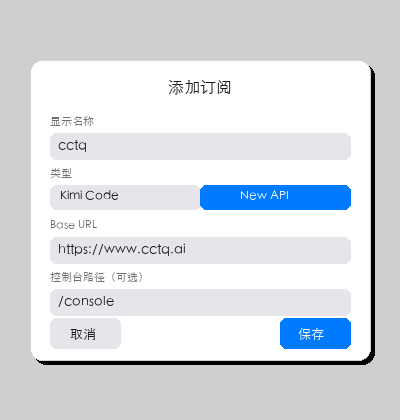
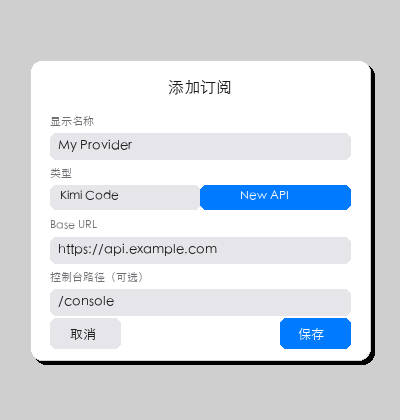
docs: remove specific New API provider names from README and code comments
- Replace CCTQ/IkunCode examples with generic placeholders
- Regenerate screenshots with generic provider names
- Update code comments to avoid mentioning specific platforms

Changed region(s): [[0.24, 0.5571, 0.54, 0.619], [0.15, 0.3095, 0.33, 0.3714]]

diff --git a/Sources/CodingPlanPlugin/Services/KeychainStorage.swift b/Sources/CodingPlanPlugin/Services/KeychainStorage.swift
@@ -26,8 +26,8 @@ enum KeychainError: Error {
 ///     "token_type": "..."
 ///   },
 ///   "newapi": {
-///     "https://www.cctq.ai": { "token": "...", "userID": "..." },
-///     "https://api.ikuncode.cc": { "token": "...", "userID": "..." }
+///     "https://api.example.com": { "token": "...", "userID": "..." },
+///     "https://api.example.org": { "token": "...", "userID": "..." }
 ///   }
 /// }
 /// ```

diff --git a/Sources/CodingPlanPlugin/Providers/NewAPIProvider.swift b/Sources/CodingPlanPlugin/Providers/NewAPIProvider.swift
@@ -1,7 +1,7 @@
 import Foundation
 
 /// New API（one-api / new-api 衍生）Provider 通用实现。
-/// cctq.ai 与 ikuncode.cc 等可复用此类型。
+/// 任意自定义 Base URL 的 New API 平台均可复用此类型。
 struct NewAPIProvider: Provider {
     let id: String
     let name: String

diff --git a/Sources/CodingPlanPlugin/Services/NewAPIAuthService.swift b/Sources/CodingPlanPlugin/Services/NewAPIAuthService.swift
@@ -1,6 +1,6 @@
 import Foundation
 
-/// 管理 New API 类型服务（cctq.ai / ikuncode.cc 等）的认证信息。
+/// 管理 New API 类型服务的认证信息。
 ///
 /// 把 access_token 与对应的 user_id（New-Api-User 鉴权需要两者配合）合并到统一
 /// Keychain item 中；运行时全程复用内存缓存，避免反复读取 Keychain。

diff --git a/README.md b/README.md
@@ -27,15 +27,9 @@
 
 ### New API
 
-支持所有基于 [one-api](https://github.com/songquanpeng/one-api) / [new-api](https://github.com/Calcium-Ion/new-api) 的平台，例如：
-
-- `https://www.cctq.ai`
-- `https://api.ikuncode.cc`
-- 任何其他自定义 Base URL 的平台
+支持所有基于 [one-api](https://github.com/songquanpeng/one-api) / [new-api](https://github.com/Calcium-Ion/new-api) 的平台。你可以添加任意自定义 Base URL。
 
 每个 New API 订阅需要：
-
-- **Base URL**：控制台域名，如 `https://www.cctq.ai`
 - **access token**：在控制台「令牌」或「个人设置」中生成
 - **user ID**：控制台中显示的用户 ID（通常为纯数字）
 - **控制台路径**（可选）：默认为 `/console`